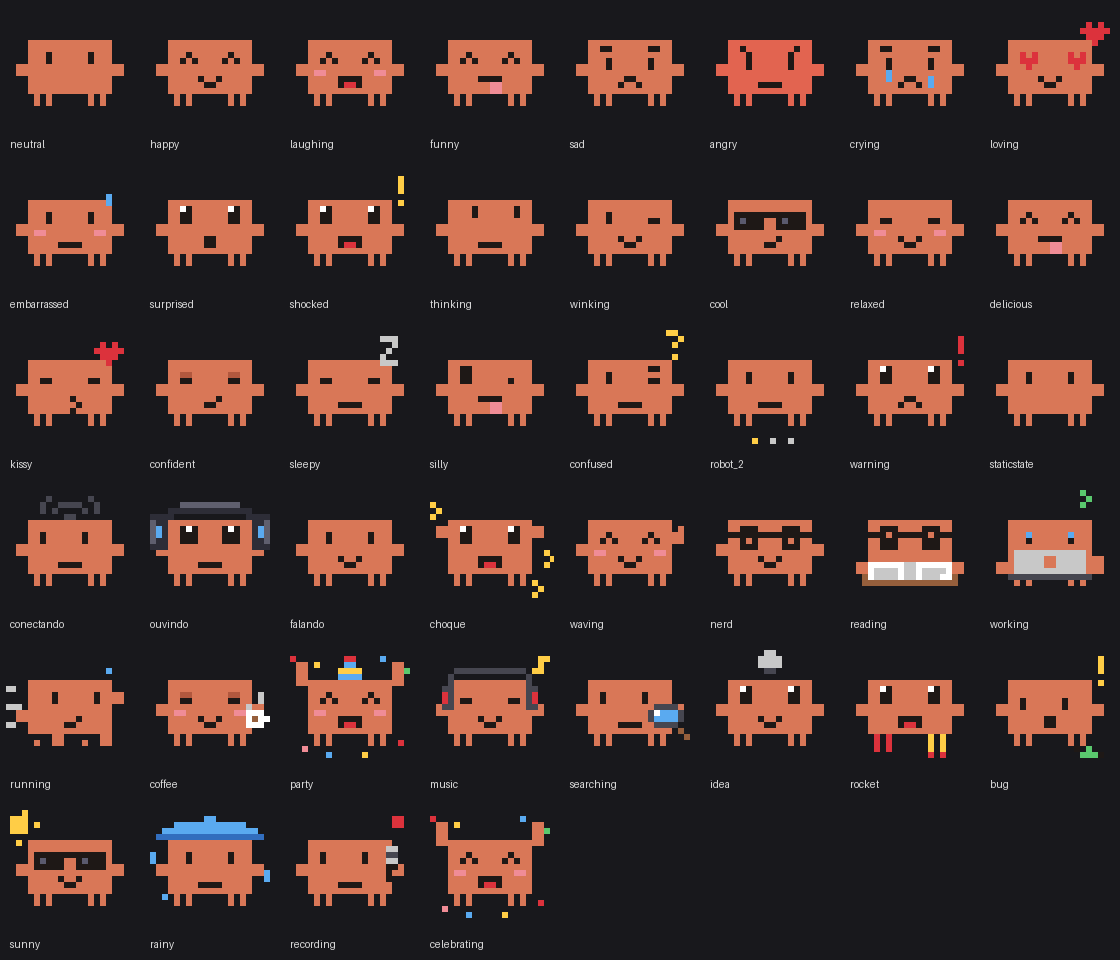
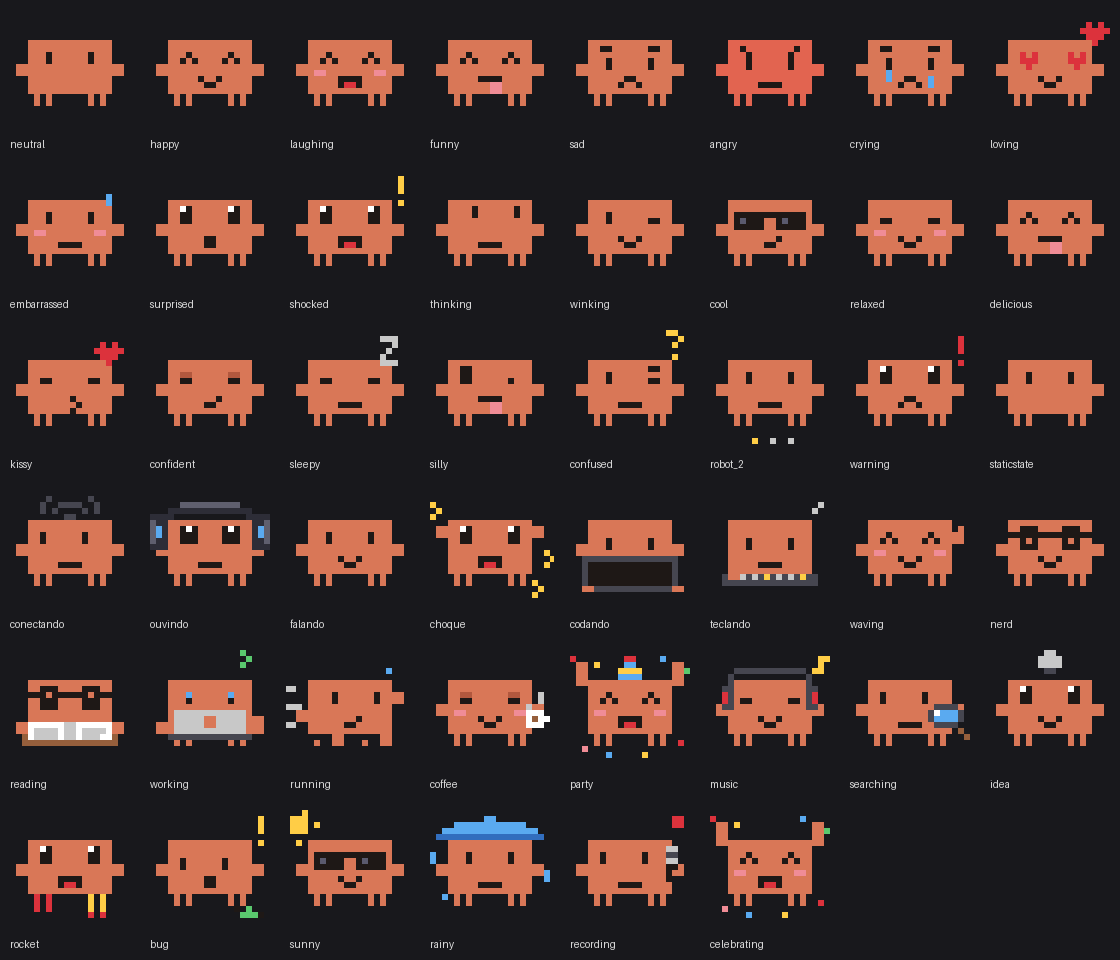
Clawd works on screen while Claude Code sessions run, with progress verbs
- New coding and typing animations; while a session runs the standby screen rotates work poses
  and shows "* Coding…" style verbs with the running session's title (+N)
- The server sends the running sessions with the notices poll (no extra request)

diff --git a/firmwares/xiaozhi-ollie/placa/apps/servico_saudacao.h b/firmwares/xiaozhi-ollie/placa/apps/servico_saudacao.h
@@ -43,6 +43,22 @@ public:
             proxima_ = std::max(proxima_, aviso + 600);
             return;
         }
+        // Sessão do Claude Code rodando: Clawd trabalhando e uma frase de progresso no estilo do Claude Code
+        if (ContextoApps::atividade_n > 0) {
+            trabalhando_ = true;
+            if (agora >= proxima_trabalho_) {
+                proxima_trabalho_ = agora + 5;
+                MostrarTrabalho(agora >= proxima_pose_);
+                if (agora >= proxima_pose_) {
+                    proxima_pose_ = agora + 20;
+                }
+            }
+            return;
+        }
+        if (trabalhando_) {  // acabou: volta para a saudação na hora
+            trabalhando_ = false;
+            proxima_ = proxima_pose_ = agora;
+        }
         if (agora >= proxima_pose_) {
             proxima_pose_ = agora + 40 + (int)(esp_random() % 51);  // 40 a 90 s
             std::string pose = Pose();
@@ -69,6 +85,33 @@ private:
     bool perfil_ok_ = false;
     int ultima_frase_ = -1;
     int proxima_pose_ = 0;
+    int proxima_trabalho_ = 0;
+    bool trabalhando_ = false;
+    int verbo_ = -1;
+
+    // "Codando…" + a sessão que está rodando (e quantas mais); troca a pose de trabalho quando pedido
+    void MostrarTrabalho(bool trocar_pose) {
+        static const char* const kVerbos[] = {
+            TR("Codando", "Coding", "编码中", "Programando"), TR("Pensando", "Thinking", "思考中", "Pensando"),
+            TR("Ruminando", "Pondering", "琢磨中", "Rumiando"), TR("Refatorando", "Refactoring", "重构中", "Refactorizando"),
+            TR("Depurando", "Debugging", "调试中", "Depurando"), TR("Compilando", "Compiling", "编译中", "Compilando"),
+            TR("Arquitetando", "Architecting", "构思中", "Diseñando"), TR("Tecendo", "Weaving", "编织中", "Tejiendo"),
+            TR("Cozinhando", "Cooking", "烹饪中", "Cocinando"), TR("Lapidando", "Polishing", "打磨中", "Puliendo"),
+            TR("Orquestrando", "Orchestrating", "编排中", "Orquestando"), TR("Destrinchando", "Untangling", "梳理中", "Desenredando")};
+        constexpr int n = sizeof(kVerbos) / sizeof(kVerbos[0]);
+        verbo_ = (verbo_ + 1 + (int)(esp_random() % (n - 1))) % n;  // nunca repete o anterior
+        int outras = ContextoApps::atividade_n - 1;
+        std::string frase = std::string("* ") + kVerbos[verbo_] + "…\n" + ContextoApps::atividade_titulo +
+                            (outras > 0 ? " +" + std::to_string(outras) : "");
+        ContextoApps::App().Schedule([frase]() {
+            Board::GetInstance().GetDisplay()->SetChatMessage("saudacao", frase.c_str());
+        });
+        if (trocar_pose) {
+            static const char* const kPoses[] = {"codando", "teclando", "working", "searching", "reading", "bug", "rocket"};
+            const char* pose = kPoses[esp_random() % (sizeof(kPoses) / sizeof(kPoses[0]))];
+            ContextoApps::App().Schedule([pose]() { Board::GetInstance().GetDisplay()->SetEmotion(pose); });
+        }
+    }
     std::string ultima_pose_;
 
     // Pose do Clawd para a espera: um conjunto comum mais poses do período, sem repetir a anterior

diff --git a/firmwares/xiaozhi-ollie/mascote-clawd/gerar.py b/firmwares/xiaozhi-ollie/mascote-clawd/gerar.py
@@ -37,6 +37,8 @@ EMOCOES = [
     "conectando", "ouvindo", "falando",
     # carregador conectado: o Clawd leva um choque
     "choque",
+    # trabalhando (sessões do Claude Code rodando): no terminal e no teclado
+    "codando", "teclando",
     # poses extras (o servidor escolhe pelo emoji da resposta ou pelo que está acontecendo)
     "waving", "nerd", "reading", "working", "running", "coffee", "party", "music",
     "searching", "idea", "rocket", "bug", "sunny", "rainy", "recording", "celebrating",
@@ -300,7 +302,7 @@ def pose(nome, f):
 
 
 POSES = set(EMOCOES[EMOCOES.index("waving"):])
-ESTADOS = {"conectando": 180, "ouvindo": 220, "falando": 140, "choque": 90}   # ms por quadro (6 quadros)
+ESTADOS = {"conectando": 180, "ouvindo": 220, "falando": 140, "choque": 90, "codando": 260, "teclando": 120}   # ms por quadro (6 quadros)
 
 
 def quadro(emocao, f):
@@ -424,6 +426,30 @@ def quadro(emocao, f):
         for i, (x, y) in enumerate(((0, 1), (18, 0), (19, 9), (0, 11), (17, 14))):
             if (i + f) % 2 == 0:         # faíscas em zigue-zague
                 t.px(x, y, AMARELO); t.px(x + 1, y + 1, AMARELO); t.px(x, y + 2, AMARELO)
+        return t.img
+    elif emocao == "codando":            # atrás de um terminal: linhas de código aparecendo
+        olhos(t, "normal", dy=1)                         # olhando para a tela
+        t.px(2, 10, CINZA_ESCURO, 16, 6)                 # monitor na frente da parte de baixo
+        t.px(3, 11, OLHO, 14, 4)                         # tela escura
+        cores = [VERDE, LARANJA, AZUL, AMARELO]
+        linhas = min(4, f % 6)
+        for k in range(linhas):                          # uma linha nova por quadro
+            t.px(4 + (k % 2) * 2, 11 + k, cores[k], (9, 6, 10, 5)[k], 1)
+        if f % 2:
+            t.px(5 + (linhas % 2) * 2 + (9, 6, 10, 5)[min(linhas, 3)] , 11 + min(linhas, 3), BRANCO)  # cursor
+        t.px(1 if f % 2 else 2, 15, LARANJA, 2, 1); t.px(17 if f % 2 == 0 else 16, 15, LARANJA, 2, 1)  # mãos
+        return t.img
+    elif emocao == "teclando":           # batendo rápido no teclado, teclas acendendo
+        t = Tela(dy=(0, -1)[f % 2] * PX // 3)
+        corpo(t, bracos_y=None)
+        olhos(t, "meio" if f % 3 else "normal", dy=1); boca(t, "reta")
+        t.px(2, 13, CINZA_ESCURO, 16, 2)                 # teclado
+        for k in range(7):
+            t.px(3 + k * 2, 13, CINZA if (k + f) % 3 else AMARELO, 1, 1)
+        t.px(1 if f % 2 else 3, 11 if f % 2 else 12, LARANJA, 2, 2)    # braços alternando
+        t.px(16 if f % 2 else 15, 12 if f % 2 else 11, LARANJA, 2, 2)
+        if f % 3 == 0:
+            t.px(17, 2, CINZA); t.px(18, 1, CINZA)       # "tec tec"
         return t.img
     elif emocao == "warning":
         olhos(t, "grande"); boca(t, "triste")

diff --git a/servidor/extras/core/utils/vigia.py b/servidor/extras/core/utils/vigia.py
@@ -23,6 +23,7 @@ MAX_AVISOS = 50
 MAX_HISTORICO = 200
 HISTORICO = Path(__file__).resolve().parents[2] / "data/avisos_historico.json"
 _avisos: list[dict] = []
+_atividade: dict = {"trabalhando": 0, "titulos": []}
 _seq = 0
 _trava = threading.Lock()
 _iniciado = False
@@ -91,9 +92,10 @@ def historico(limite: int = 60) -> list[dict]:
 
 def avisos_desde(ultimo: int) -> dict:
     with _trava:
+        # "atividade": sessões trabalhando agora (o Watcher mostra o Clawd trabalhando na tela de espera)
         if ultimo < 0:  # primeira consulta do aparelho: só sincroniza, sem repetir avisos antigos
-            return {"ultimo": _seq, "avisos": []}
-        return {"ultimo": _seq, "avisos": [a for a in _avisos if a["id"] > ultimo]}
+            return {"ultimo": _seq, "avisos": [], "atividade": dict(_atividade)}
+        return {"ultimo": _seq, "avisos": [a for a in _avisos if a["id"] > ultimo], "atividade": dict(_atividade)}
 
 
 def _frase_curta(titulo: str, fala: str) -> str:
@@ -129,7 +131,12 @@ def _loop(ponte) -> None:
     primeira = True
     while True:
         try:
-            for a in ponte._agentes():
+            agentes = ponte._agentes()
+            ativos = [_titulo_curto(a) for a in agentes
+                      if a.get("situacao") in ("trabalhando", "subagentes rodando") or a.get("status") == "working"]
+            with _trava:
+                _atividade.update(trabalhando=len(ativos), titulos=ativos[:3])
+            for a in agentes:
                 chave, estado, feitas = a["sessao"], a["status"], a.get("_conclusoes", 0)
                 if not primeira:
                     if estado == "blocked" and estados.get(chave) != "blocked":

diff --git a/firmwares/xiaozhi-ollie/placa/nucleo_apps.h b/firmwares/xiaozhi-ollie/placa/nucleo_apps.h
@@ -143,7 +143,10 @@ struct ContextoApps {
     }
 
     // Aviso na tela principal (som opcional: Lang::Sounds::OGG_POPUP etc.)
-    inline static std::atomic<int> ultimo_aviso{-100000};  // Agora() do último aviso (a saudação não o cobre)
+    inline static std::atomic<int> ultimo_aviso{-100000};
+    // Sessões do Claude Code trabalhando agora (vem junto com os avisos; a tela de espera mostra o Clawd trabalhando)
+    inline static std::atomic<int> atividade_n{0};
+    inline static std::string atividade_titulo;  // escrito e lido só pela tarefa da gaveta  // Agora() do último aviso (a saudação não o cobre)
 
     static void Avisar(const std::string& titulo, const std::string& texto, const std::string& emocao,
                        std::string_view som = "") {

diff --git a/firmwares/xiaozhi-ollie/placa/apps/servico_avisos.h b/firmwares/xiaozhi-ollie/placa/apps/servico_avisos.h
@@ -50,6 +50,13 @@ public:
             }
         }
         ultimo_id_ = RedeWatcher::Numero(raiz, "ultimo", ultimo_id_);
+        cJSON* atividade = cJSON_GetObjectItem(raiz, "atividade");
+        if (cJSON_IsObject(atividade)) {
+            ContextoApps::atividade_n = RedeWatcher::Numero(atividade, "trabalhando", 0);
+            cJSON* titulos = cJSON_GetObjectItem(atividade, "titulos");
+            cJSON* primeiro = cJSON_IsArray(titulos) ? cJSON_GetArrayItem(titulos, 0) : nullptr;
+            ContextoApps::atividade_titulo = cJSON_IsString(primeiro) ? primeiro->valuestring : "";
+        }
         cJSON_Delete(raiz);
     }
 
